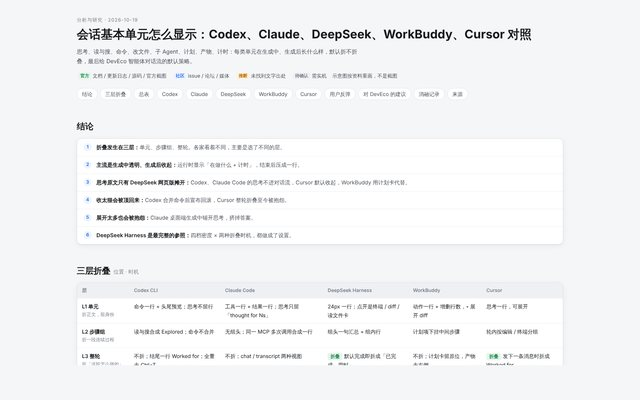
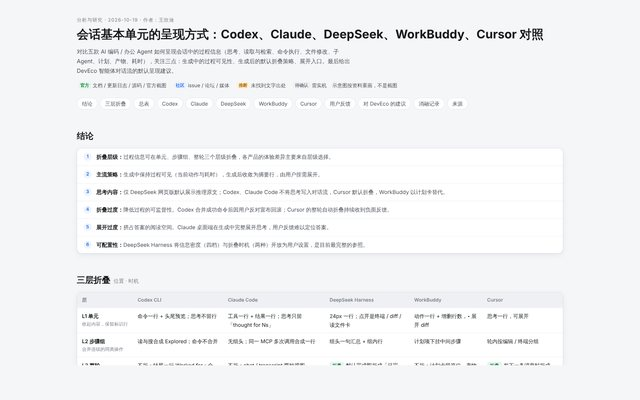
会话单元竞品分析：改用体验术语，标注作者王欣迪

Changed region(s): [[0.125, 0.66, 0.875, 0.93], [0.0938, 0.3, 0.6875, 0.63], [0.125, 0.03, 0.8438, 0.27]]

diff --git a/analysis/agent-conversation-units/REPORT-会话单元显示竞品分析.html b/analysis/agent-conversation-units/REPORT-会话单元显示竞品分析.html
@@ -3,7 +3,7 @@
 <head>
 <meta charset="utf-8">
 <meta name="viewport" content="width=device-width,initial-scale=1">
-<title>会话单元显示竞品分析</title>
+<title>会话单元呈现竞品分析</title>
 <style>
 :root{
   --bg:#f5f6f8; --paper:#ffffff; --ink:#15171a; --ink2:#4a4f57; --ink3:#7a808a; --line:#e3e5e9; --line2:#eef0f3;
@@ -101,9 +101,9 @@ tr:last-child td,tr:last-child th{border-bottom:none}
 </head>
 <body>
 <div class="wrap">
-  <div class="eyebrow">分析与研究 · 2026-10-19</div>
-  <h1>会话基本单元怎么显示：Codex、Claude、DeepSeek、WorkBuddy、Cursor 对照</h1>
-  <p class="lede">思考、读与搜、命令、改文件、子 Agent、计划、产物、计时：每类单元在生成中、生成后长什么样，默认折不折叠，最后给 DevEco 智能体对话流的默认策略。</p>
+  <div class="eyebrow">分析与研究 · 2026-10-19 · 作者：王欣迪</div>
+  <h1>会话基本单元的呈现方式：Codex、Claude、DeepSeek、WorkBuddy、Cursor 对照</h1>
+  <p class="lede">对比五款 AI 编码 / 办公 Agent 如何呈现会话中的过程信息（思考、读取与检索、命令执行、文件修改、子 Agent、计划、产物、耗时），关注三点：生成中的过程可见性、生成后的默认折叠策略、展开入口。最后给出 DevEco 智能体对话流的默认呈现建议。</p>
   <div class="legend">
     <span><span class="ev o">官方</span> 文档 / 更新日志 / 源码 / 官方截图</span>
     <span><span class="ev m">社区</span> issue / 论坛 / 媒体</span>
@@ -114,36 +114,36 @@ tr:last-child td,tr:last-child th{border-bottom:none}
   <nav class="toc">
     <a href="#keys">结论</a><a href="#layers">三层折叠</a><a href="#matrix">总表</a>
     <a href="#codex">Codex</a><a href="#claude">Claude</a><a href="#deepseek">DeepSeek</a><a href="#workbuddy">WorkBuddy</a><a href="#cursor">Cursor</a>
-    <a href="#voices">用户反弹</a><a href="#deveco">对 DevEco 的建议</a><a href="#ablation">消融记录</a><a href="#sources">来源</a>
+    <a href="#voices">用户反馈</a><a href="#deveco">对 DevEco 的建议</a><a href="#ablation">消融记录</a><a href="#sources">来源</a>
   </nav>
 
   <h2 id="keys">结论</h2>
   <ol class="items">
-    <li><span><b>折叠发生在三层：</b>单元、步骤组、整轮。各家看着不同，主要是选了不同的层。</span></li>
-    <li><span><b>主流是生成中透明、生成后收起：</b>运行时显示「在做什么 + 计时」，结束后压成一行。</span></li>
-    <li><span><b>思考原文只有 DeepSeek 网页版摊开：</b>Codex、Claude Code 的思考不进对话流，Cursor 默认收起，WorkBuddy 用计划卡代替。</span></li>
-    <li><span><b>收太狠会被顶回来：</b>Codex 合并命令后宣布回滚，Cursor 整轮折叠至今被抱怨。</span></li>
-    <li><span><b>展开太多也会被抱怨：</b>Claude 桌面端生成中铺开思考，挤掉答案。</span></li>
-    <li><span><b>DeepSeek Harness 是最完整的参照：</b>四档密度 × 两种折叠时机，都做成了设置。</span></li>
+    <li><span><b>折叠层级：</b>过程信息可在单元、步骤组、整轮三个层级折叠，各产品的体验差异主要来自层级选择。</span></li>
+    <li><span><b>主流策略：</b>生成中保持过程可见（当前动作与耗时），生成后收敛为摘要行，由用户按需展开。</span></li>
+    <li><span><b>思考内容：</b>仅 DeepSeek 网页版默认展示推理原文；Codex、Claude Code 不将思考写入对话流，Cursor 默认折叠，WorkBuddy 以计划卡替代。</span></li>
+    <li><span><b>折叠过度：</b>降低过程的可监督性。Codex 合并成功命令后因用户反对宣布回滚；Cursor 的整轮自动折叠持续收到负面反馈。</span></li>
+    <li><span><b>展开过度：</b>挤占答案的阅读空间。Claude 桌面端在生成中完整展开思考，用户反馈难以定位答案。</span></li>
+    <li><span><b>可配置性：</b>DeepSeek Harness 将信息密度（四档）与折叠时机（两种）开放为用户设置，是目前最完整的参照。</span></li>
   </ol>
 
   <h2 id="layers">三层折叠<small>位置 · 时机</small></h2>
   <div class="tw"><table>
     <thead><tr><th>层</th><th>Codex CLI</th><th>Claude Code</th><th>DeepSeek Harness</th><th>WorkBuddy</th><th>Cursor</th></tr></thead>
     <tbody>
-      <tr><th>L1 单元<small>折正文，留身份</small></th>
+      <tr><th>L1 单元<small>收起内容，保留标识行</small></th>
         <td>命令一行 + 头尾预览；思考不留行</td>
         <td>工具一行 + 结果一行；思考只留「thought for Ns」</td>
         <td>24px 一行；点开是终端 / diff / 读文件卡</td>
         <td>动作一行 + 增删行数，▾ 展开 diff</td>
         <td>思考一行，可展开</td></tr>
-      <tr><th>L2 步骤组<small>折一段连续过程</small></th>
+      <tr><th>L2 步骤组<small>合并连续的同类操作</small></th>
         <td>读与搜合成 Explored；命令不合并</td>
         <td>无组头；同一 MCP 多次调用合成一行</td>
         <td>组头一句汇总 + 组内行</td>
         <td>计划项下挂中间步骤</td>
         <td>轮内按编辑 / 终端分组</td></tr>
-      <tr><th>L3 整轮<small>折「这轮怎么做的」</small></th>
+      <tr><th>L3 整轮<small>收起本轮全部过程</small></th>
         <td>不折；结尾一行 Worked for；全量去 Ctrl+T</td>
         <td>不折；chat / transcript 两种视图</td>
         <td><span class="fold y">折叠</span>默认完成即折成「已完成，用时」</td>
@@ -157,9 +157,9 @@ tr:last-child td,tr:last-child th{border-bottom:none}
     </tbody>
   </table></div>
   <ul class="items" style="margin-top:12px">
-    <li><span><b>完成即折：</b>结论刚出来，过程就被收走，用户还在对照。</span></li>
-    <li><span><b>下一句才折：</b>刚才几步留到用户开始下一个问题，代价是会话更长。</span></li>
-    <li><span><b>时机比位置更容易做错：</b>DeepSeek Harness 把两种都做成设置；Cursor 写死且不可关，是反对声最集中的一家。</span></li>
+    <li><span><b>完成时折叠：</b>结论出现的同时过程被收起，用户无法对照过程核对结论。</span></li>
+    <li><span><b>下一轮输入时折叠：</b>过程保留到用户发起下一轮，便于回看，但会话长度增加。</span></li>
+    <li><span><b>设计要点：</b>折叠时机对体验的影响大于折叠位置。DeepSeek Harness 将两种时机都开放为设置；Cursor 固定且不可关闭，是负面反馈最集中的设计。</span></li>
   </ul>
 
   <h2 id="matrix">总表<small>生成中 → 生成后</small></h2>
@@ -251,7 +251,7 @@ tr:last-child td,tr:last-child th{border-bottom:none}
       <li>输出留头尾：普通单元 5 行，紧凑活动视图 3 行，其余折成「… +N lines」<span class="ev o">官方</span></li>
       <li>思考只在底部状态行显示摘要标题；完成后标记 transcript_only，只进 Ctrl+T <span class="ev o">官方</span></li>
       <li>整轮结尾一行「Worked for 1m 12s」<span class="ev o">官方</span></li>
-      <li>命令执行完才出现在流里 <span class="ev m">社区</span></li>
+      <li>命令在执行完成后才写入对话流，执行前不可见 <span class="ev m">社区</span></li>
     </ul>
   </div>
 
@@ -271,7 +271,7 @@ tr:last-child td,tr:last-child th{border-bottom:none}
         </div></div>
     </div>
     <ul class="facts">
-      <li>动作默认合成一行，点开才见文件名和命令；曾出现展开为空、无法展开 <span class="ev m">社区</span></li>
+      <li>操作默认合并为一行摘要，展开后才显示文件名和命令；曾出现展开内容为空或无法展开 <span class="ev m">社区</span></li>
       <li>推理摘要一行 + 箭头，运行中被截断，展开也看不全 <span class="ev m">社区</span></li>
       <li>diff 在 Review 面板，不在对话流 <span class="ev m">社区</span></li>
     </ul>
@@ -324,7 +324,7 @@ tr:last-child td,tr:last-child th{border-bottom:none}
       <li>思考：底部「✻ Thinking…」，结束后同处变「thought for Ns」，不进对话流 <span class="ev o">官方</span></li>
       <li>思考正文默认关（showThinkingSummaries 默认 false）<span class="ev o">官方</span></li>
       <li>两种视图：defaultView 为 chat 或 transcript，Ctrl+O 切；transcript 带时间戳、模型名，并展开「Called slack 3 times」<span class="ev o">官方</span></li>
-      <li>工具调用在执行前就显示 <span class="ev m">社区</span></li>
+      <li>工具调用在执行前即显示 <span class="ev m">社区</span></li>
     </ul>
   </div>
 
@@ -348,7 +348,7 @@ tr:last-child td,tr:last-child th{border-bottom:none}
       <li>VS Code：思考是收起的区块，Ctrl+O 全部展开 / 收起 <span class="ev o">官方</span></li>
       <li>Focus view：工具调用、结果、思考全收进可展开行，最新待办仍可见 <span class="ev o">官方</span></li>
       <li>改文件弹出并排 diff 请求授权，可逐个改动接受 / 拒绝 <span class="ev o">官方</span></li>
-      <li>桌面端：生成中思考整段展开，重启后收起，设置里没有开关 <span class="ev m">社区</span></li>
+      <li>桌面端：生成中完整展开思考，重启后变为收起，且无相关设置项 <span class="ev m">社区</span></li>
       <li>桌面端转录三档：Normal / Thinking / Verbose <span class="ev m">社区</span></li>
     </ul>
   </div>
@@ -372,7 +372,7 @@ tr:last-child td,tr:last-child th{border-bottom:none}
     </div>
     <ul class="facts">
       <li>推理原文不折叠、不隐藏，排在答案之前 <span class="ev m">社区</span></li>
-      <li>关掉「深度思考」就不显示 <span class="ev m">社区</span></li>
+      <li>关闭「深度思考」后不展示推理过程 <span class="ev m">社区</span></li>
       <li>标题「已深度思考（用时 N 秒）」可点击收起；正文灰字左竖线 <span class="ev i">推断</span></li>
     </ul>
   </div>
@@ -434,7 +434,7 @@ tr:last-child td,tr:last-child th{border-bottom:none}
       <li>流式显示「已处理 X 秒」，每轮显示运行时间 <span class="ev o">官方</span></li>
       <li>产物随对话出现，联动右侧预览 <span class="ev o">官方</span></li>
       <li>回到仍在生成的会话，会补齐离开期间的思考、正文和工具内容 <span class="ev o">官方</span></li>
-      <li>没看到独立思考单元，只有任务状态「规划中」<span class="ev i">推断</span></li>
+      <li>未见独立的思考单元，推理阶段以任务状态「规划中」体现 <span class="ev i">推断</span></li>
       <li>生成中计划卡是逐步打勾还是整卡刷新 <span class="ev q">待确认</span></li>
     </ul>
   </div>
@@ -457,18 +457,18 @@ tr:last-child td,tr:last-child th{border-bottom:none}
         </div></div>
     </div>
     <ul class="facts">
-      <li>思考随消息保存，默认收起；快模型几乎一出现就收起 <span class="ev m">社区</span></li>
-      <li>3.14 起，发下一条消息后整轮收进「Worked for …」，diff 一起收；官方称有意为之 <span class="ev m">社区</span></li>
-      <li>没有关闭开关，Conversation Density 只调轮内分组 <span class="ev m">社区</span></li>
+      <li>思考随消息保存，默认折叠；使用快速模型时几乎即时收起 <span class="ev m">社区</span></li>
+      <li>3.14 起，发下一条消息后整轮收进「Worked for …」，diff 一并收起；官方说明为有意设计 <span class="ev m">社区</span></li>
+      <li>暂无关闭选项；Conversation Density 仅调整轮内分组 <span class="ev m">社区</span></li>
     </ul>
   </div>
 
-  <h2 id="voices">用户反弹</h2>
+  <h2 id="voices">用户反馈</h2>
   <ul class="items">
-    <li><span><b>Codex：</b>成功命令合并成「Ran N commands」后没法盯着跑，官方宣布回滚。</span></li>
-    <li><span><b>Cursor：</b>下一条消息一发，正在审的 diff 被收走，官方承认没有开关。</span></li>
-    <li><span><b>Claude 桌面端：</b>思考太长挤掉答案，重启后又收起，状态不一致。</span></li>
-    <li><span><b>共同点：</b>反对的不是折叠，而是不可控、不一致。</span></li>
+    <li><span><b>Codex：</b>成功命令被合并为「Ran N commands」后，用户无法实时监督执行过程，官方宣布回滚。</span></li>
+    <li><span><b>Cursor：</b>发送下一条消息后，上一轮 diff 被自动收起，打断审阅流程；官方确认暂无关闭选项。</span></li>
+    <li><span><b>Claude 桌面端：</b>思考默认展开且篇幅过长，重启后又变为收起，展示状态不一致。</span></li>
+    <li><span><b>共性：</b>用户反对的不是折叠本身，而是折叠不可控、状态不一致。</span></li>
   </ul>
 
   <h2 id="deveco">对 DevEco 智能体对话流的建议</h2>
@@ -476,23 +476,23 @@ tr:last-child td,tr:last-child th{border-bottom:none}
     <thead><tr><th>单元</th><th>生成中</th><th>生成后默认</th><th>依据</th></tr></thead>
     <tbody>
       <tr><th>思考</th><td>一行摘要 + 计时</td><td><span class="fold y">折叠</span>「已思考 N 秒」，可展开</td><td>Claude Code、DeepSeek Harness</td></tr>
-      <tr><th>读与搜</th><td>组头「正在读取 · 当前文件」</td><td><span class="fold y">折叠</span>一句汇总，展开列文件</td><td>Codex Explored、Harness 组头</td></tr>
-      <tr><th>执行命令</th><td>执行前显示命令，输出滚动，可中断</td><td><span class="fold p">部分</span>命令常显，输出留头尾；失败默认展开</td><td>Codex 回滚、退出码上色</td></tr>
+      <tr><th>读与搜</th><td>组头「正在读取 · 当前文件」</td><td><span class="fold y">折叠</span>一句汇总，展开后列出文件</td><td>Codex Explored、Harness 组头</td></tr>
+      <tr><th>执行命令</th><td>执行前展示命令，输出实时滚动，支持中断</td><td><span class="fold p">部分</span>命令行常驻，输出保留首尾；失败时默认展开</td><td>Codex 回滚案例、按退出码着色</td></tr>
       <tr><th>改文件</th><td>文件名 + 增删行数</td><td><span class="fold p">部分</span>同上，▾ 展开 diff</td><td>WorkBuddy 动作行</td></tr>
       <tr><th>子 Agent</th><td>每个一行：状态、耗时</td><td><span class="fold y">折叠</span>一行结果</td><td>Claude Code agent map</td></tr>
       <tr><th>计划</th><td>置顶，逐项打勾</td><td>任何密度下都可见</td><td>WorkBuddy 计划卡、Focus view</td></tr>
       <tr><th>产物</th><td>随对话出现</td><td>卡片 + 侧栏预览</td><td>WorkBuddy 右侧结果区</td></tr>
-      <tr><th>整轮</th><td>「处理中，用时 N 秒」</td><td>不自动折；可设为完成后或下一句时折</td><td>Harness 两种时机、Cursor 反弹</td></tr>
+      <tr><th>整轮</th><td>「处理中，用时 N 秒」</td><td>默认不折叠；可设为完成时或下一轮输入时折叠</td><td>Harness 两种时机、Cursor 负面反馈</td></tr>
     </tbody>
   </table></div>
   <ol class="items" style="margin-top:12px">
-    <li><span><b>三档密度，一处设置、全局记住：</b>简洁 / 标准 / 详细。</span></li>
-    <li><span><b>折叠时机单独做成设置：</b>默认不折整轮。</span></li>
-    <li><span><b>生成中、生成后、重开会话三种状态显示一致。</b></span></li>
-    <li><span><b>全量过程放独立时间线：</b>耗时、token、嵌套调用不进对话流。</span></li>
+    <li><span><b>信息密度分档：</b>提供简洁 / 标准 / 详细三档，全局生效并持久保存。</span></li>
+    <li><span><b>折叠时机独立配置：</b>默认不自动折叠整轮。</span></li>
+    <li><span><b>状态一致：</b>生成中、生成后、重新打开会话三种状态下展示一致。</span></li>
+    <li><span><b>过程与结论分层：</b>耗时、token、嵌套调用等完整过程放入独立的时间线视图，对话流只保留摘要。</span></li>
   </ol>
 
-  <h2 id="ablation">消融记录<small>逐个元素问「它帮读者回答哪一个问题」</small></h2>
+  <h2 id="ablation">消融记录<small>逐项判断：该元素是否帮助读者回答本页的问题</small></h2>
   <div class="tw"><table style="min-width:760px">
     <thead><tr><th>元素</th><th>结果</th><th>依据</th></tr></thead>
     <tbody>
@@ -504,15 +504,16 @@ tr:last-child td,tr:last-child th{border-bottom:none}
       <tr><th>示意图下的注释行</th><td><span class="res del">删除</span></td><td>图例已说明「重画非截图」，示意文案改回各家原语言</td></tr>
       <tr><th>总表长句</th><td><span class="res mrg">合并</span></td><td>压成短语，细节留在产品卡</td></tr>
       <tr><th>Codex App 底层协议</th><td><span class="res del">删除</span></td><td>不影响用户看到什么</td></tr>
-      <tr><th>Codex 0.149 回滚</th><td><span class="res mrg">合并</span></td><td>只留在「用户反弹」一处</td></tr>
+      <tr><th>Codex 0.149 回滚</th><td><span class="res mrg">合并</span></td><td>只留在「用户反馈」一处</td></tr>
       <tr><th>Claude Code Esc 中断、转后台、agent map</th><td><span class="res del">删除</span></td><td>与折叠无关；agent map 只留在建议依据</td></tr>
       <tr><th>Claude.ai 思考截断提示</th><td><span class="res del">删除</span></td><td>安全策略，不是显示策略</td></tr>
       <tr><th>DeepSeek 第三方折叠脚本</th><td><span class="res del">删除</span></td><td>侧证，不改结论</td></tr>
       <tr><th>Harness 社区站、中途停下</th><td><span class="res del">删除</span></td><td>与显示无关</td></tr>
       <tr><th>Harness 待确认项</th><td><span class="res mrg">替换</span></td><td>用源码事实补齐：24px 行、组头、四档密度、两种时机</td></tr>
       <tr><th>WorkBuddy 更新日志十条</th><td><span class="res mrg">合并</span></td><td>留计时、产物、补齐三条，补上计划卡与动作行</td></tr>
-      <tr><th>用户反弹三张卡</th><td><span class="res mrg">合并</span></td><td>改为三条 + 一条共同点</td></tr>
+      <tr><th>用户反馈三张卡</th><td><span class="res mrg">合并</span></td><td>改为三条 + 一条共同点</td></tr>
       <tr><th>建议表「依据」长句</th><td><span class="res mrg">合并</span></td><td>只留产品名</td></tr>
+      <tr><th>口语化表述</th><td><span class="res mrg">改写</span></td><td>统一为体验术语：过程可见性、信息密度、可监督性、状态一致性</td></tr>
       <tr><th>来源</th><td><span class="res keep">保留</span></td><td>每条事实可追溯</td></tr>
     </tbody>
   </table></div>

diff --git a/site/catalog.js b/site/catalog.js
@@ -363,8 +363,9 @@ window.DEVECO_CATALOG = {
       note: '对内汇报与对外协同共用的事实基础：以开发者证据推动方案，不以设计观点推动方案。',
       items: [
         {
-          title: '会话单元显示竞品分析：思考、工具调用折不折叠', subtitle: 'Agent Conversation Units · Codex, Claude, DeepSeek, WorkBuddy, Cursor',
-          desc: '先讲折叠发生在单元 / 步骤组 / 整轮三层与折叠时机；再把一轮 Agent 回复拆成思考、读与搜、执行命令、改文件、子 Agent、计划、产物、状态计时八类单元，逐个看 Codex（CLI / App）、Claude（Claude.ai / Claude Code）、DeepSeek（网页 / Harness）、WorkBuddy、Cursor 在生成中和生成后长什么样、默认是否折叠；附各家生成中 / 生成后示意、用户反弹、DevEco 对话流默认策略与消融记录。官方、社区、推断分开标注；DeepSeek Harness、Codex 按源码复核。',
+          title: '会话单元呈现竞品分析：思考与工具调用的可见性和折叠策略',
+          author: '王欣迪', subtitle: 'Agent Conversation Units · Codex, Claude, DeepSeek, WorkBuddy, Cursor',
+          desc: '王欣迪：先讲折叠发生在单元 / 步骤组 / 整轮三层与折叠时机；再把一轮 Agent 回复拆成思考、读与搜、执行命令、改文件、子 Agent、计划、产物、状态计时八类单元，逐个看 Codex（CLI / App）、Claude（Claude.ai / Claude Code）、DeepSeek（网页 / Harness）、WorkBuddy、Cursor 在生成中和生成后长什么样、默认是否折叠；附各家生成中 / 生成后示意、用户反弹、DevEco 对话流默认策略与消融记录。官方、社区、推断分开标注；DeepSeek Harness、Codex 按源码复核。',
           view: 'doc', date: '2026-10-19', href: 'analysis/agent-conversation-units/REPORT-会话单元显示竞品分析.html',
           links: [
             { label: '三层折叠', href: 'analysis/agent-conversation-units/REPORT-会话单元显示竞品分析.html#layers' },
